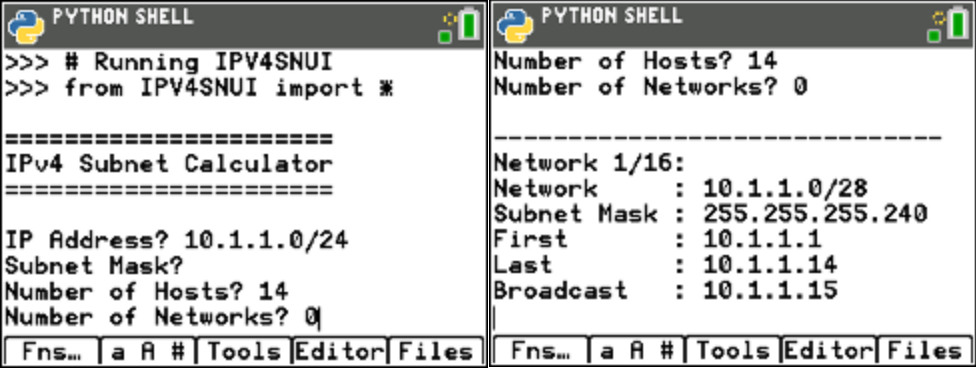
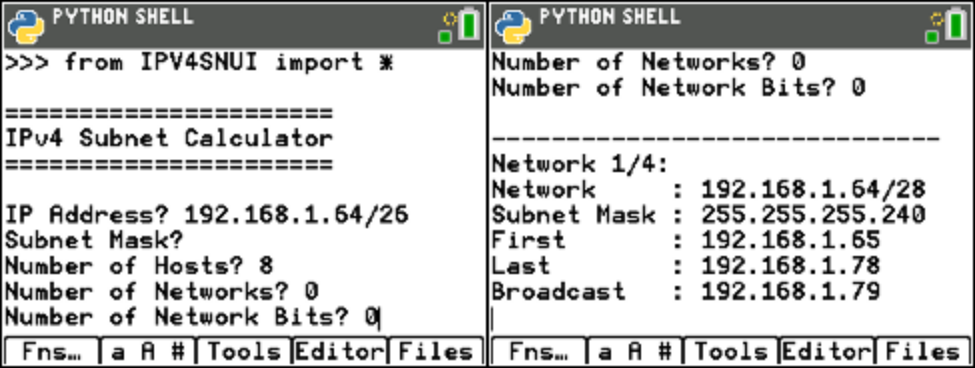
Added ability to subnet for a number of network bits

diff --git a/tests/computing/test_calculate_subnets.py b/tests/computing/test_calculate_subnets.py
@@ -5,40 +5,53 @@ from src.computing.ipv4nths import nth_subnet
 
 class TestCalculateSubnets(unittest.TestCase):
     def test_calculate_subnets_for_hosts_with_suffix_1(self):
-        subnets = calculate_subnets("10.1.1.0/24", None, 14, 0)
+        subnets = calculate_subnets("10.1.1.0/24", number_of_hosts=14)
         self.assertEqual(16, subnets["subnet_count"])
         self.assertEqual(28, subnets["network_bits"])
         self.assertEqual("255.255.255.240", subnets["subnet_mask"])
 
     def test_calculate_subnets_for_hosts_without_suffix_1(self):
-        subnets = calculate_subnets("10.1.1.0", "255.255.255.0", 14, 0)
+        subnets = calculate_subnets("10.1.1.0", "255.255.255.0", number_of_hosts=14)
         self.assertEqual(16, subnets["subnet_count"])
         self.assertEqual(28, subnets["network_bits"])
         self.assertEqual("255.255.255.240", subnets["subnet_mask"])
 
     def test_calculate_subnets_for_hosts_with_suffix_2(self):
-        subnets = calculate_subnets("192.168.1.64/26", None, 8, 0)
+        subnets = calculate_subnets("192.168.1.64/26", number_of_hosts=8)
         assert 4 == subnets["subnet_count"]
         assert 28 == subnets["network_bits"]
         assert "255.255.255.240" == subnets["subnet_mask"]
 
     def test_calculate_subnets_for_hosts_without_suffix_2(self):
-        subnets = calculate_subnets("192.168.1.64", "255.255.255.192", 8, 0)
+        subnets = calculate_subnets("192.168.1.64", "255.255.255.192", number_of_hosts=8)
         assert 4 == subnets["subnet_count"]
         assert 28 == subnets["network_bits"]
         assert "255.255.255.240" == subnets["subnet_mask"]
 
-    def test_calculate_subnets_for_networks_with_suffix_3(self):
-        subnets = calculate_subnets("10.128.192.0/18", None, 0, 30)
+    def test_calculate_subnets_for_networks_with_suffix_1(self):
+        subnets = calculate_subnets("10.128.192.0/18", number_of_networks=30)
         self.assertEqual(32, subnets["subnet_count"])
         self.assertEqual(23, subnets["network_bits"])
         self.assertEqual("255.255.254.0", subnets["subnet_mask"])
 
-    def test_calculate_subnets_for_networks_without_suffix_3(self):
-        subnets = calculate_subnets("10.128.192.0", "255.255.192.0", 0, 30)
+    def test_calculate_subnets_for_networks_without_suffix_1(self):
+        subnets = calculate_subnets("10.128.192.0", "255.255.192.0", number_of_networks=30)
         self.assertEqual(32, subnets["subnet_count"])
         self.assertEqual(23, subnets["network_bits"])
         self.assertEqual("255.255.254.0", subnets["subnet_mask"])
+
+    def test_calculate_subnets_for_network_bits_with_suffix_1(self):
+        subnets = calculate_subnets("192.168.1.96/28", number_of_network_bits=30)
+        self.assertEqual(4, subnets["subnet_count"])
+        self.assertEqual(30, subnets["network_bits"])
+        self.assertEqual("255.255.255.252", subnets["subnet_mask"])
+
+    def test_calculate_subnets_for_network_bits_without_suffix_1(self):
+        subnets = calculate_subnets("192.168.1.96", "255.255.255.240", number_of_network_bits=30)
+        self.assertEqual(4, subnets["subnet_count"])
+        self.assertEqual(30, subnets["network_bits"])
+        self.assertEqual("255.255.255.252", subnets["subnet_mask"])
+
 
     def test_get_subnet_details_for_networks_with_suffix_1(self):
         subnets = calculate_subnets("192.168.1.0/24", None, 0, 4)
@@ -74,52 +87,68 @@ class TestCalculateSubnets(unittest.TestCase):
 
     def test_invalid_hosts_error(self):
         with self.assertRaises(ValueError):
-            _ = calculate_subnets("10.1.1.0/24", None, -1, 0)
+            _ = calculate_subnets("10.1.1.0/24", number_of_hosts=-1)
 
     def test_invalid_networks_error(self):
         with self.assertRaises(ValueError):
-            _ = calculate_subnets("10.1.1.0/24", None, 0, -1)
+            _ = calculate_subnets("10.1.1.0/24", number_of_networks=-1)
+
+    def test_invalid_network_bitss_error(self):
+        with self.assertRaises(ValueError):
+            _ = calculate_subnets("10.1.1.0/24", number_of_network_bits=-1)
 
     def test_no_hosts_or_networks_error(self):
         with self.assertRaises(ValueError):
-            _ = calculate_subnets("10.1.1.0/24", None, 0, 0)
+            _ = calculate_subnets("10.1.1.0/24")
 
     def test_hosts_and_networks_error(self):
         with self.assertRaises(ValueError):
-            _ = calculate_subnets("10.1.1.0/24", None, 10, 10)
+            _ = calculate_subnets("10.1.1.0/24", number_of_hosts=10, number_of_networks=10)
+
+    def test_networks_and_network_bits_error(self):
+        with self.assertRaises(ValueError):
+            _ = calculate_subnets("10.1.1.0/24", number_of_networks=10, number_of_network_bits=10)
 
     def test_too_many_hosts_error_with_suffix(self):
         with self.assertRaises(ValueError):
-            _ = calculate_subnets("10.1.1.0/24", None, 1000000, 0)
+            _ = calculate_subnets("10.1.1.0/24", number_of_hosts=1000000)
 
     def test_too_many_hosts_error_without_suffix(self):
         with self.assertRaises(ValueError):
-            _ = calculate_subnets("10.1.1.0", "255.255.255.0", 1000000, 0)
+            _ = calculate_subnets("10.1.1.0", "255.255.255.0", number_of_hosts=1000000)
 
     def test_too_many_networks_error_with_suffix(self):
         with self.assertRaises(ValueError):
-            _ = calculate_subnets("10.1.1.0/24", None, 0, 1000000)
+            _ = calculate_subnets("10.1.1.0/24", number_of_networks=1000000)
 
     def test_too_many_networks_error_without_suffix(self):
         with self.assertRaises(ValueError):
-            _ = calculate_subnets("10.1.1.0", "255.255.255.0", 0, 1000000)
+            _ = calculate_subnets("10.1.1.0", "255.255.255.0", number_of_networks=1000000)
+
+    def test_too_many_network_bits_error_with_suffix(self):
+        with self.assertRaises(ValueError):
+            _ = calculate_subnets("10.1.1.0/24", number_of_network_bits=1000000)
+
+    def test_too_many_network_bits_error_without_suffix(self):
+        with self.assertRaises(ValueError):
+            _ = calculate_subnets("10.1.1.0", "255.255.255.0", number_of_network_bits=1000000)
 
     def test_subnet_number_too_small_error_with_suffix(self):
         with self.assertRaises(ValueError):
-            subnets = calculate_subnets("192.168.1.0/24", None, 0, 4)
+            subnets = calculate_subnets("192.168.1.0/24", number_of_networks=4)
             _ = nth_subnet(subnets["first_network"], subnets["network_bits"], subnets["subnet_bits"], 0)
 
     def test_subnet_number_too_small_error_without_suffix(self):
         with self.assertRaises(ValueError):
-            subnets = calculate_subnets("192.168.1.0", "255.255.255.0", 0, 4)
+            subnets = calculate_subnets("192.168.1.0", "255.255.255.0", number_of_networks=4)
             _ = nth_subnet(subnets["first_network"], subnets["network_bits"], subnets["subnet_bits"], 0)
 
     def test_subnet_number_too_large_error_with_suffix(self):
         with self.assertRaises(ValueError):
-            subnets = calculate_subnets("192.168.1.0/24", None, 0, 4)
+            subnets = calculate_subnets("192.168.1.0/24", number_of_networks=4)
             _ = nth_subnet(subnets["first_network"], subnets["network_bits"], subnets["subnet_bits"], 10000)
 
     def test_subnet_number_too_large_error_without_suffix(self):
         with self.assertRaises(ValueError):
-            subnets = calculate_subnets("192.168.1.0", "255.255.255.0", 0, 4)
+            subnets = calculate_subnets("192.168.1.0", "255.255.255.0", number_of_networks=4)
             _ = nth_subnet(subnets["first_network"], subnets["network_bits"], subnets["subnet_bits"], 10000)

diff --git a/src/computing/ipv4snt.py b/src/computing/ipv4snt.py
@@ -2,18 +2,20 @@ from ipv4lib import get_network_bits, calculate_octets
 from ipv4bits import subnet_for_networks, subnet_for_hosts
 
 
-def calculate_subnets(ip_address, subnet_mask, number_of_hosts, number_of_networks):
+def calculate_subnets(ip_address, subnet_mask=None, number_of_hosts=0, number_of_networks=0, number_of_network_bits=0):
     """
-    Given an IP address and a subnet mask, both in dotted decimal format, along with a number of hosts or
-    networks, subnet the IP address into either the specified number of subnets or a set of subnets
-    accommodating the specified number of hosts
+    Given an IP address and a subnet mask, both in dotted decimal format, along with a number of hosts,
+    networks or network bits, subnet the IP address into either the specified number of subnets or a set
+    of subnets accommodating the specified number of hosts
 
     :param ip_address: IP address string in dotted-decimal notation, optionally with the /n suffix
     :param subnet_mask: Subnet mask string in dotted-decimal notation, or none if the IP address has the /n suffix
-    :param number_of_hosts: Number of hosts per network or 0 if subnetting for a number of networks
-    :param number_of_networks: Number of subnets required or 0 if subnetting to accommodate a number of hosts
-    :return: Dictionary of subnetting properties
+    :param number_of_hosts: Number of hosts per network or 0
+    :param number_of_networks: Number of subnets required or 0
+    :param number_of_network_bits: Number of network bits in the subnets or 0
+    :return: Dictionary of subnet details
     """
+
     # Validate the requested number of hosts/networks
     if number_of_hosts < 0:
         raise ValueError(str(number_of_hosts) + " is not valid for the number of hosts")
@@ -21,11 +23,15 @@ def calculate_subnets(ip_address, subnet_mask, number_of_hosts, number_of_networ
     if number_of_networks < 0:
         raise ValueError(str(number_of_networks) + " is not valid for the number of networks")
 
-    if number_of_hosts == 0 and number_of_networks == 0:
-        raise ValueError("Must specify a number of hosts or a number of networks")
+    if number_of_network_bits < 0:
+        raise ValueError(str(number_of_network_bits) + " is not valid for the number of network bits")
 
-    if number_of_hosts > 0 and number_of_networks > 0:
-        raise ValueError("Cannot specify both a number of hosts and a number of networks")
+    number_of_parameters = len([i for i in [number_of_hosts, number_of_networks, number_of_network_bits] if i > 0])
+    if number_of_parameters < 1:
+        raise ValueError("Must specify a number of hosts, a number of networks or a number of network bits")
+
+    if number_of_parameters > 1:
+        raise ValueError("Must specify only one of a number of hosts, a number of networks or a number of network bits")
 
     # Get the IP address and number of network bits
     ip_address, network_bits = get_network_bits(ip_address, subnet_mask)
@@ -33,8 +39,11 @@ def calculate_subnets(ip_address, subnet_mask, number_of_hosts, number_of_networ
     # Calculate the number of bits we need to take from the host portion
     if number_of_hosts > 0:
         new_network_bits, number_of_subnet_bits = subnet_for_hosts(network_bits, number_of_hosts)
-    else:
+    elif number_of_networks > 0:
         new_network_bits, number_of_subnet_bits = subnet_for_networks(network_bits, number_of_networks)
+    else:
+        new_network_bits = number_of_network_bits
+        number_of_subnet_bits = new_network_bits - network_bits
 
     # Calculate the new number of network bits and check it's in range
     if new_network_bits < network_bits or new_network_bits > 32:

diff --git a/src/ui/ipv4snui.py b/src/ui/ipv4snui.py
@@ -60,11 +60,15 @@ def main():
         if networks is None:
             break
 
+        network_bits = prompt_for_integer("Number of Network Bits?", 0, None)
+        if network_bits is None:
+            break
+
         print()
 
         try:
             # Calculate the subnet details
-            subnets = calculate_subnets(ip_address, subnet_mask, hosts, networks)
+            subnets = calculate_subnets(ip_address, subnet_mask, hosts, networks, network_bits)
             display_subnets(subnets["subnet_mask"],
                             subnets["subnet_count"],
                             subnets["first_network"],

diff --git a/docs/source/ui/ipv4snui.rst b/docs/source/ui/ipv4snui.rst
@@ -7,8 +7,9 @@ The application prompts for the following details:
 
 - IP address for the network to subnet
 - Subnet mask
-- Number of hosts per subnet, or 0 to calculate for a number of subnets
-- Number of networks required, or 0 to calculate for a number of hosts per network
+- Number of hosts per subnet, or 0 to calculate for a number of subnets or network bits
+- Number of networks required, or 0 to calculate for a number of hosts per network or network bits
+- Number of network bits required, or 0 to calculate for a number of hosts per network or number of networks
 
 The IP address can be entered with the "/n" suffix specifying the number of network bits, in which case the subnet mask can be empty, or without the suffix, in which case the subnet mask is required.
 
